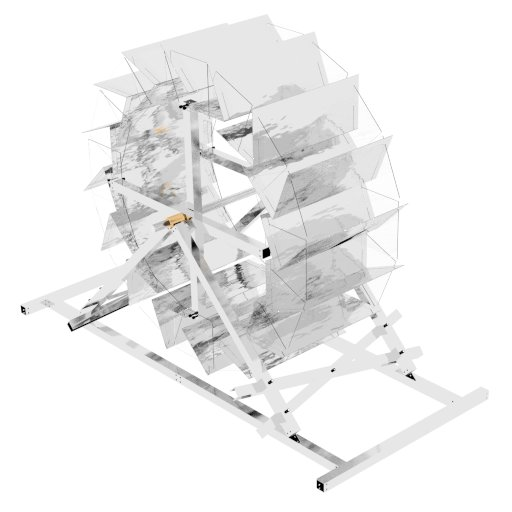
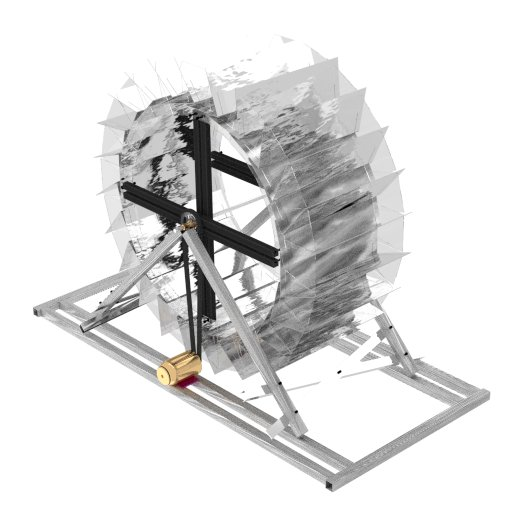
Redesign.16->24buckets,Ref #3,Fix #5,Fix #6,Fix #7
Reduces the bucket sheet size as side effect of the increase in number
of buckets. The prior 40cm sheet width was still too difficult to find,
better to spare these ancient trees.

diff --git a/Bill_of_Materials.md b/Bill_of_Materials.md
@@ -1,68 +1,75 @@
-<table><thead>
-<tr><th>  #  	</th><th>Label                                              	</th><th>Material      	</th><th>Dimensions</th></tr>
-</thead>
-<tbody>
+<table><thead><tr><th>  #  	</th><th>Label                                              	</th><th>Material              	</th><th>Dimensions</th></tr>
+</thead><tbody><tr><td colspan="4"></td></tr>
+<tr><th colspan="4">Holder</th></tr>
+<tr><td> 14x </td><td>	Beam_Rectangle                                     	</td><td>-      	</td><td>[7.0cm x 1.7m x 7.0cm]</td></tr>
+<tr><td>     	</td><td colspan="3">Cut from 6m or 12m metal beam.</td></tr>
+<tr><td> 14x 	</td><td colspan="3"><img src="./Bill_of_Materials.md__entry_Beam_Rectangle___scratched_metal___7.0cm_x_1.7m_x_7.0cm_____volume_0.004__blueprint.jpg" title="Volume: 0.004" alt="blueprint"/></td></tr>
+<tr><td colspan="4"></td></tr>
+<tr><td>  9x </td><td>	Beam_Rectangle                                     	</td><td>-               	</td><td>[5.0cm x 1.7m x 5.0cm]</td></tr>
+<tr><td>     	</td><td colspan="3">Cube</td></tr>
+<tr><td>  9x 	</td><td colspan="3"><img src="./Bill_of_Materials.md__entry_Beam_Rectangle___rubber___5.0cm_x_1.7m_x_5.0cm_____volume_0.002__blueprint.jpg" title="Volume: 0.002" alt="blueprint"/></td></tr>
+<tr><td colspan="4"></td></tr>
+<tr><td>  2x </td><td>	Beam_cylindrical_bearing                           	</td><td>-                 	</td><td>[4.0cm x 4.0cm x 4.0cm]</td></tr>
+<tr><td>     	</td><td colspan="3">EN10305-1, Precision steel pipe E235+C, seamless, 4mm thickness</td></tr>
+<tr><td>  2x 	</td><td colspan="3"><img src="./Bill_of_Materials.md__entry_Beam_cylindrical_bearing___gold___4.0cm_x_4.0cm_x_4.0cm_____volume_0.0__blueprint.jpg" title="Volume: 0.0" alt="blueprint"/></td></tr>
+<tr><td colspan="4"></td></tr>
+<tr><td>  1x </td><td>	Beam_cylindrical                                   	</td><td>-                  	</td><td>[3.0cm x 3.0cm x 1.4m]</td></tr>
+<tr><td>     	</td><td colspan="3">EN10060/EN10025, Steel beam round, S235JR (235N/mm^2)</td></tr>
+<tr><td>  1x 	</td><td colspan="3"><img src="./Bill_of_Materials.md__entry_Beam_cylindrical___ice___3.0cm_x_3.0cm_x_1.4m_____volume_0.0__blueprint.jpg" title="Volume: 0.0" alt="blueprint"/></td></tr>
+<tr><td colspan="4"></td></tr>
+<tr><td>  2x </td><td>	Beam_U                                             	</td><td>-               	</td><td>[7.0cm x 1.7m x 7.0cm]</td></tr>
+<tr><td>     	</td><td colspan="3">Cut from 6m metal beam.</td></tr>
+<tr><td>  2x 	</td><td colspan="3"><img src="./Bill_of_Materials.md__entry_Beam_U___silver___7.0cm_x_1.7m_x_7.0cm_____volume_0.002__blueprint.jpg" title="Volume: 0.002" alt="blueprint"/></td></tr>
 <tr><td colspan="4"></td></tr>
 
-<tr><td> 52x 	</td><td>Nut                                                	</td><td>-            	</td><td>[2.194cm x 1.9cm x 1.05cm]</td></tr>
-<tr><td> 52x 	</td><td colspan="3"><img src="./Bill_of_Materials.md__entry_Nut___-___2.194cm_x_1.9cm_x_1.05cm_____volume_0.0__blueprint.jpg" title="Volume: 0.0" alt="blueprint"/></td></tr>
+<tr><th colspan="4">Various</th></tr>
+<tr><td>  1x </td><td>	Motor                                              	</td><td>-                 	</td><td>[20.389cm x 38.5cm x 20.389cm]</td></tr>
+<tr><td>     	</td><td colspan="3">Choose as available, according to power capability of the waterwheel.</td></tr>
+<tr><td>  1x 	</td><td colspan="3"><img src="./Bill_of_Materials.md__entry_Motor___gold___20.389cm_x_38.5cm_x_20.389cm_____volume_0.005__blueprint.jpg" title="Volume: 0.005" alt="blueprint"/></td></tr>
+<tr><td colspan="4"></td></tr>
+<tr><td>  2x </td><td>	Sheet_Motor_Mount                                  	</td><td>-	</td><td>[17.0cm x 23.0cm x 10.0mm]</td></tr>
+<tr><td>     	</td><td colspan="3">(Included as reference for drilling the holes into the beams.)</td></tr>
+<tr><td>  2x 	</td><td colspan="3"><img src="./Bill_of_Materials.md__entry_Sheet_Motor_Mount___DarkPinkMetallicPaint___17.0cm_x_23.0cm_x_10.0mm_____volume_0.0__blueprint.jpg" title="Volume: 0.0" alt="blueprint"/></td></tr>
+<tr><td colspan="4"></td></tr>
+<tr><td> 16x </td><td>	Bolt                                               	</td><td>-        	</td><td>[2.194cm x 1.9cm x 6.842cm]</td></tr>
+<tr><td>     	</td><td colspan="3">Bolt</td></tr>
+<tr><td> 16x 	</td><td colspan="3"><img src="./Bill_of_Materials.md__entry_Bolt___painted_metal___2.194cm_x_1.9cm_x_6.842cm_____volume_0.0__blueprint.jpg" title="Volume: 0.0" alt="blueprint"/></td></tr>
+<tr><td colspan="4"></td></tr>
+<tr><td>  8x </td><td>	Bolt                                               	</td><td>-        	</td><td>[2.194cm x 1.9cm x 11.392cm]</td></tr>
+<tr><td>     	</td><td colspan="3">Bolt</td></tr>
+<tr><td>  8x 	</td><td colspan="3"><img src="./Bill_of_Materials.md__entry_Bolt___painted_metal___2.194cm_x_1.9cm_x_11.392cm_____volume_0.0__blueprint.jpg" title="Volume: 0.0" alt="blueprint"/></td></tr>
+<tr><td colspan="4"></td></tr>
+<tr><td>  2x </td><td>	Bolt                                               	</td><td>-        	</td><td>[2.194cm x 1.9cm x 3.592cm]</td></tr>
+<tr><td>     	</td><td colspan="3">Bolt</td></tr>
+<tr><td>  2x 	</td><td colspan="3"><img src="./Bill_of_Materials.md__entry_Bolt___painted_metal___2.194cm_x_1.9cm_x_3.592cm_____volume_0.0__blueprint.jpg" title="Volume: 0.0" alt="blueprint"/></td></tr>
+<tr><td colspan="4"></td></tr>
+<tr><td> 52x </td><td>	Nut                                                	</td><td>-        	</td><td>[2.194cm x 1.9cm x 1.05cm]</td></tr>
+<tr><td>     	</td><td colspan="3">Nut</td></tr>
+<tr><td> 52x 	</td><td colspan="3"><img src="./Bill_of_Materials.md__entry_Nut___painted_metal___2.194cm_x_1.9cm_x_1.05cm_____volume_0.0__blueprint.jpg" title="Volume: 0.0" alt="blueprint"/></td></tr>
+<tr><td colspan="4"></td></tr>
+<tr><td>  2x </td><td>	Belt                                        	</td><td>-               	</td><td>[22.0cm x 1.321m x 1.4cm]</td></tr>
+<tr><td>     	</td><td colspan="3">1.95m length, depth 22mm, height </td></tr>
+<tr><td colspan="4"></td></tr>
+<tr><td>  2x </td><td>	Pulley (belt count depends)                                      	</td><td>-                	</td><td>[19.986cm x 19.986cm x 10.0mm]</td></tr>
+<tr><td>     	</td><td colspan="3">http://www.hug-technik.com/shop/index.php/cat/c141_SPC-3-rillig</td></tr>
+<tr><td>  2x 	</td><td colspan="3"><img src="./Bill_of_Materials.md__entry_V_Belt_Pulley___water___19.986cm_x_19.986cm_x_10.0mm_____volume_0.0__blueprint.jpg" title="Volume: 0.0" alt="blueprint"/></td></tr>
+<tr><td colspan="4"></td></tr>
+<tr><td>  2x </td><td>	Pulley_Taperlock                            	</td><td>-                 	</td><td>[5.36cm x 5.36cm x 10.0mm]</td></tr>
+<tr><td>     	</td><td colspan="3">http://www.hug-technik.com/shop/product_info.php?info=p1876</td></tr>
+<tr><td>  2x 	</td><td colspan="3"><img src="./Bill_of_Materials.md__entry_V_Belt_Pulley_Taperlock___gold___5.36cm_x_5.36cm_x_10.0mm_____volume_0.0__blueprint.jpg" title="Volume: 0.0" alt="blueprint"/></td></tr>
 <tr><td colspan="4"></td></tr>
 
-<tr><td> 2x 	</td><td>Bolt                                               	</td><td>metal            	</td><td>[2.194cm x 1.9cm x 3.592cm]</td></tr>
-<tr><td>  2x 	</td><td colspan="3"><img src="./Bill_of_Materials.md__entry_Bolt___-___2.194cm_x_1.9cm_x_3.592cm_____volume_0.0__blueprint.jpg" title="Volume: 0.0" alt="blueprint"/></td></tr>
-<tr><td colspan="4"></td></tr>
-
-<tr><td> 16x 	</td><td>Bolt                                               	</td><td>metal	</td><td>[2.194cm x 1.9cm x 6.842cm]</td></tr>
-<tr><td> 16x  	</td><td colspan="3"><img src="./Bill_of_Materials.md__entry_Bolt___painted_metal___2.194cm_x_1.9cm_x_6.842cm_____volume_0.0__blueprint.jpg" title="Volume: 0.0" alt="blueprint"/></td></tr>
-<tr><td colspan="4"></td></tr>
-
-<tr><td>  8x 	</td><td>Bolt                                               	</td><td>metal            	</td><td>[2.194cm x 1.9cm x 11.392cm]</td></tr>
-<tr><td>  8x 	</td><td colspan="3"><img src="./Bill_of_Materials.md__entry_Bolt___-___2.194cm_x_1.9cm_x_11.392cm_____volume_0.0__blueprint.jpg" title="Volume: 0.0" alt="blueprint"/></td></tr>
-<tr><td colspan="4"></td></tr>
-
-
-<tr><td colspan="4"></td></tr>
-<tr><td colspan="4"></td></tr>
-<tr><th colspan="4">Buckets:</th></tr>
-<tr><td colspan="4"></td></tr>
-
-<tr><td> 32x 	</td><td>Sheet                                              	</td><td>wood/metal  	</td><td>[40.0cm x 45.0cm x 4.0mm]</td></tr>
-<tr><td> 32x 	</td><td colspan="3"><img src="./Bill_of_Materials.md__entry_Sheet___transparent___40.0cm_x_45.0cm_x_4.0mm_____volume_0.0__blueprint.jpg" title="Volume: 0.0" alt="blueprint"/></td></tr>
-<tr><td colspan="4"></td></tr>
-
-<tr><td> 34x 	</td><td>Sheet                                              	</td><td>wood/metal            	</td><td>[40.0cm x 4.0mm x 1.0m]</td></tr>
-<tr><td> 34x 	</td><td colspan="3"><img src="./Bill_of_Materials.md__entry_Sheet___-___40.0cm_x_4.0mm_x_1.0m_____volume_0.0__blueprint.jpg" title="Volume: 0.0" alt="blueprint"/></td></tr>
-<tr><td colspan="4"></td></tr>
-
-<tr><td colspan="4"></td></tr>
-<tr><td colspan="4"></td></tr>
-<tr><th colspan="4">Holder:</th></tr>
-<tr><td colspan="4"></td></tr>
-
-<tr><td>  2x 	</td><td>Beam_cylindrical_bearing                           	</td><td>copper         	</td><td>[7.75cm x 7.75cm x 12.5cm]</td></tr>
-<tr><td>  2x 	</td><td colspan="3"><img src="./Bill_of_Materials.md__entry_Beam_cylindrical_bearing___gold___7.75cm_x_7.75cm_x_12.5cm_____volume_0.0__blueprint.jpg" title="Volume: 0.0" alt="blueprint"/></td></tr>
-<tr><td colspan="4"></td></tr>
-
-<tr><td>  1x 	</td><td>Beam_cylindrical                                   	</td><td>metal          	</td><td>[5.706cm x 5.706cm x 1.6m]</td></tr>
-<tr><td>  1x 	</td><td colspan="3"><img src="./Bill_of_Materials.md__entry_Beam_cylindrical___ice___5.706cm_x_5.706cm_x_1.6m_____volume_0.0__blueprint.jpg" title="Volume: 0.0" alt="blueprint"/></td></tr>
-<tr><td colspan="4"></td></tr>
-
-<tr><td> 14x 	</td><td>Beam_Rectangle                                     	</td><td>metal       	</td><td>[7.5cm x 1.7m x 7.5cm]</td></tr>
-<tr><td> 14x 	</td><td colspan="3"><img src="./Bill_of_Materials.md__entry_Beam_Rectangle___silver___7.5cm_x_1.7m_x_7.5cm_____volume_0.005__blueprint.jpg" title="Volume: 0.005" alt="blueprint"/></td></tr>
-<tr><td colspan="4"></td></tr>
-
-<tr><td colspan="4"></td></tr>
-<tr><td colspan="4"></td></tr>
-<tr><th colspan="4">Stabilizers:</th></tr>
-<tr><td colspan="4"></td></tr>
-
-<tr><td>  2x 	</td><td>Sheet                                              	</td><td>metal       	</td><td>[7.5cm x 1.7m x 10.0mm]</td></tr>
+<tr><th colspan="4">Buckets</th></tr>
+<tr><td>  2x </td><td>	Sheet                                              	</td><td>-               	</td><td>[7.5cm x 1.7m x 10.0mm]</td></tr>
+<tr><td>     	</td><td colspan="3">Cut from wood planks.</td></tr>
 <tr><td>  2x 	</td><td colspan="3"><img src="./Bill_of_Materials.md__entry_Sheet___silver___7.5cm_x_1.7m_x_10.0mm_____volume_0.002__blueprint.jpg" title="Volume: 0.002" alt="blueprint"/></td></tr>
 <tr><td colspan="4"></td></tr>
-
-<tr><td>  2x 	</td><td>Beam_U                                             	</td><td>metal       	</td><td>[7.5cm x 1.7m x 7.5cm]</td></tr>
-<tr><td>  2x 	</td><td colspan="3"><img src="./Bill_of_Materials.md__entry_Beam_U___silver___7.5cm_x_1.7m_x_7.5cm_____volume_0.002__blueprint.jpg" title="Volume: 0.002" alt="blueprint"/></td></tr>
+<tr><td> 48x </td><td>	Sheet                                              	</td><td>-                	</td><td>[40.0cm x 30.0cm x 4.0mm]</td></tr>
+<tr><td>     	</td><td colspan="3">Cut from wooden planks.</td></tr>
+<tr><td> 48x 	</td><td colspan="3"><img src="./Bill_of_Materials.md__entry_Sheet___water___40.0cm_x_30.0cm_x_4.0mm_____volume_0.0__blueprint.jpg" title="Volume: 0.0" alt="blueprint"/></td></tr>
 <tr><td colspan="4"></td></tr>
-
-</tbody>
-</table>
+<tr><td> 50x </td><td>	Sheet                                              	</td><td>-      	</td><td>[35.0cm x 4.0mm x 1.0m]</td></tr>
+<tr><td>     	</td><td colspan="3">Cut from wooden planks.</td></tr>
+<tr><td> 50x 	</td><td colspan="3"><img src="./Bill_of_Materials.md__entry_Sheet___scratched_metal___35.0cm_x_4.0mm_x_1.0m_____volume_0.0__blueprint.jpg" title="Volume: 0.0" alt="blueprint"/></td></tr>
+<tr><td colspan="4"></td></tr>
+</tbody><tbody></tbody>
